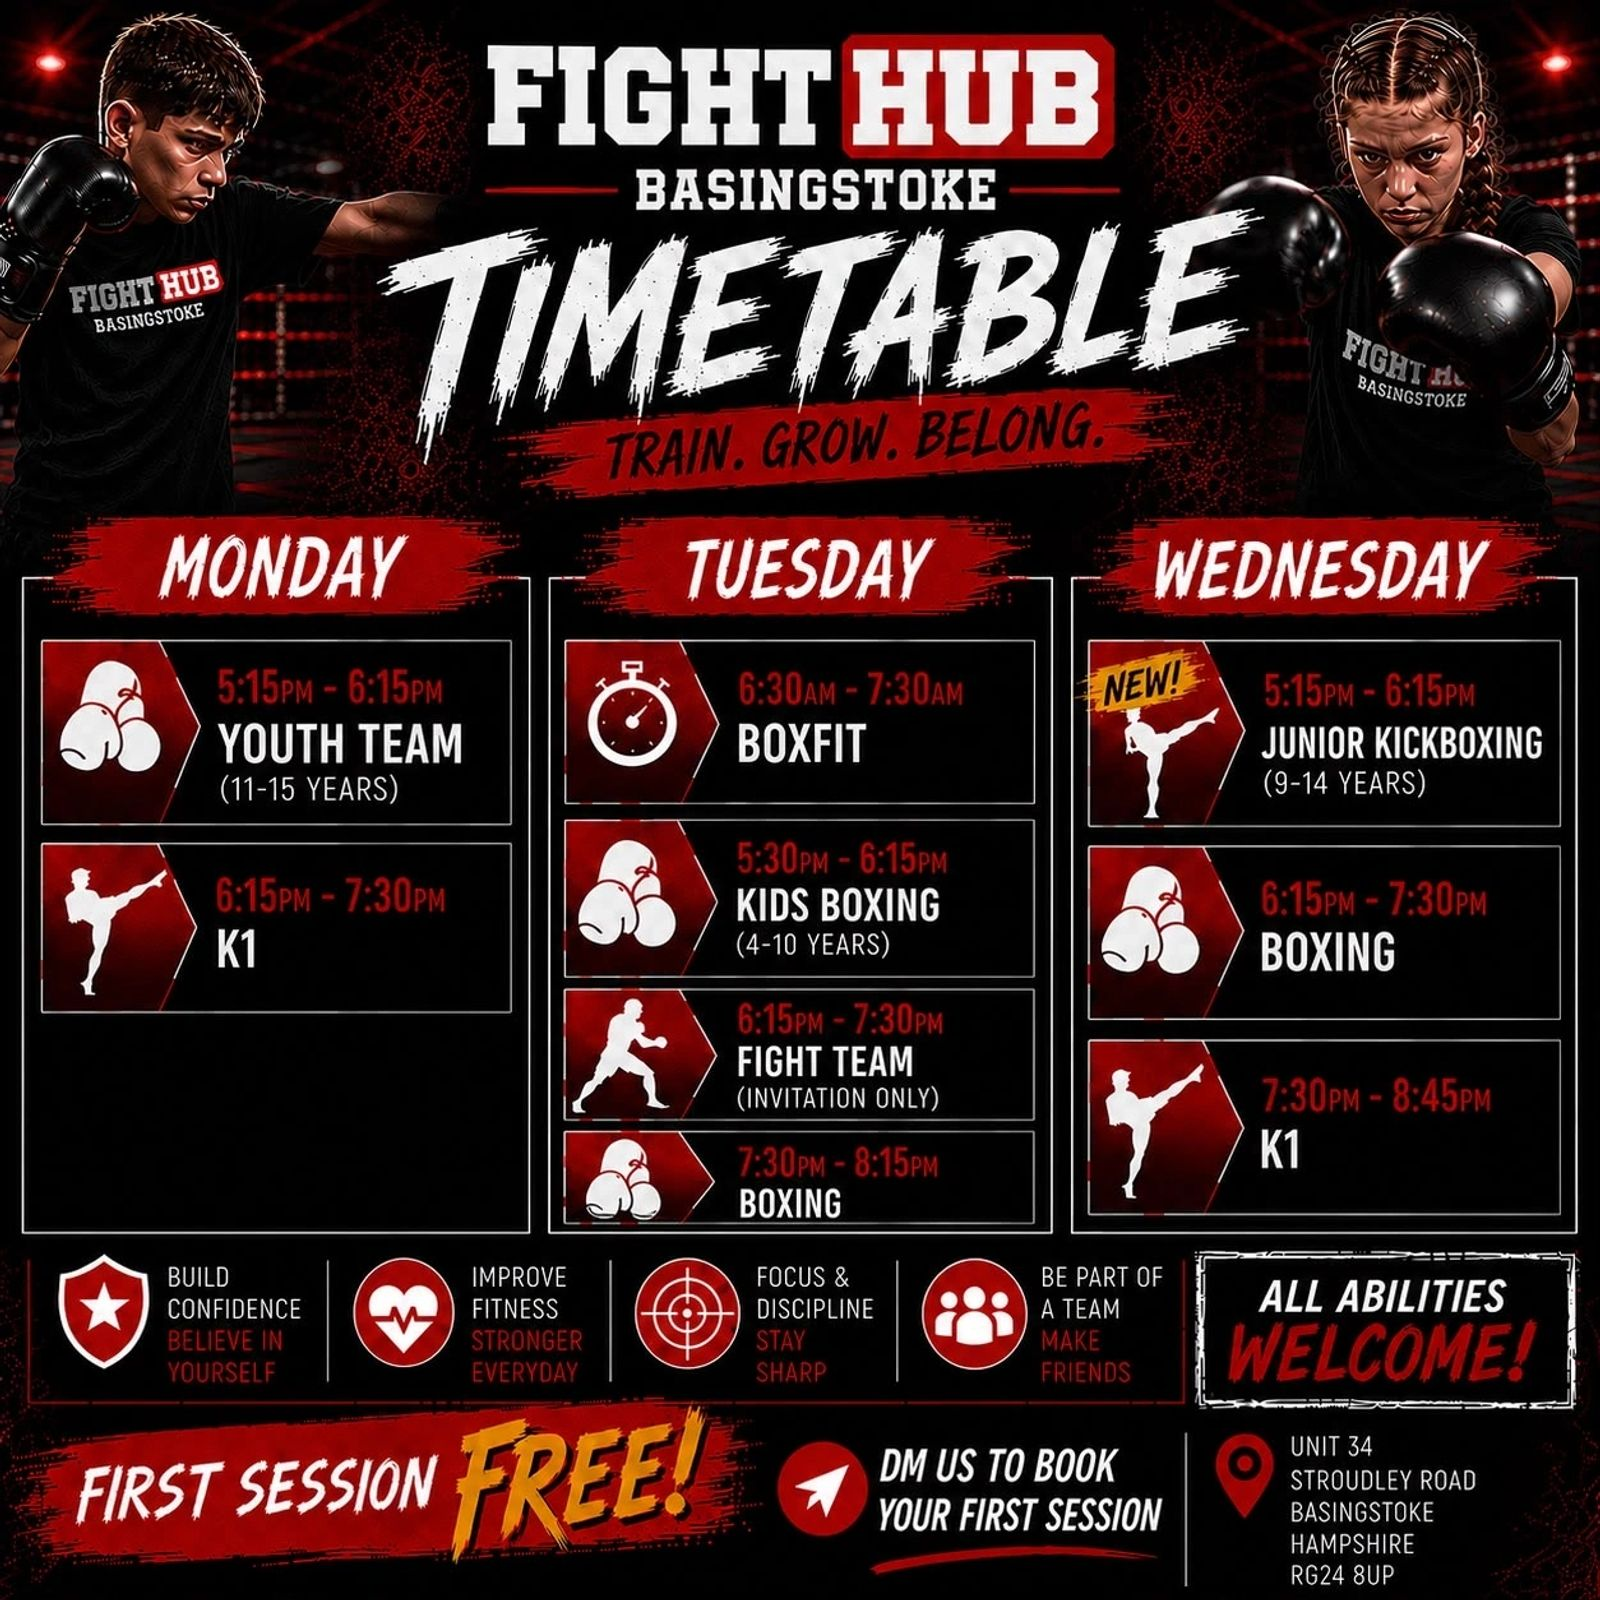
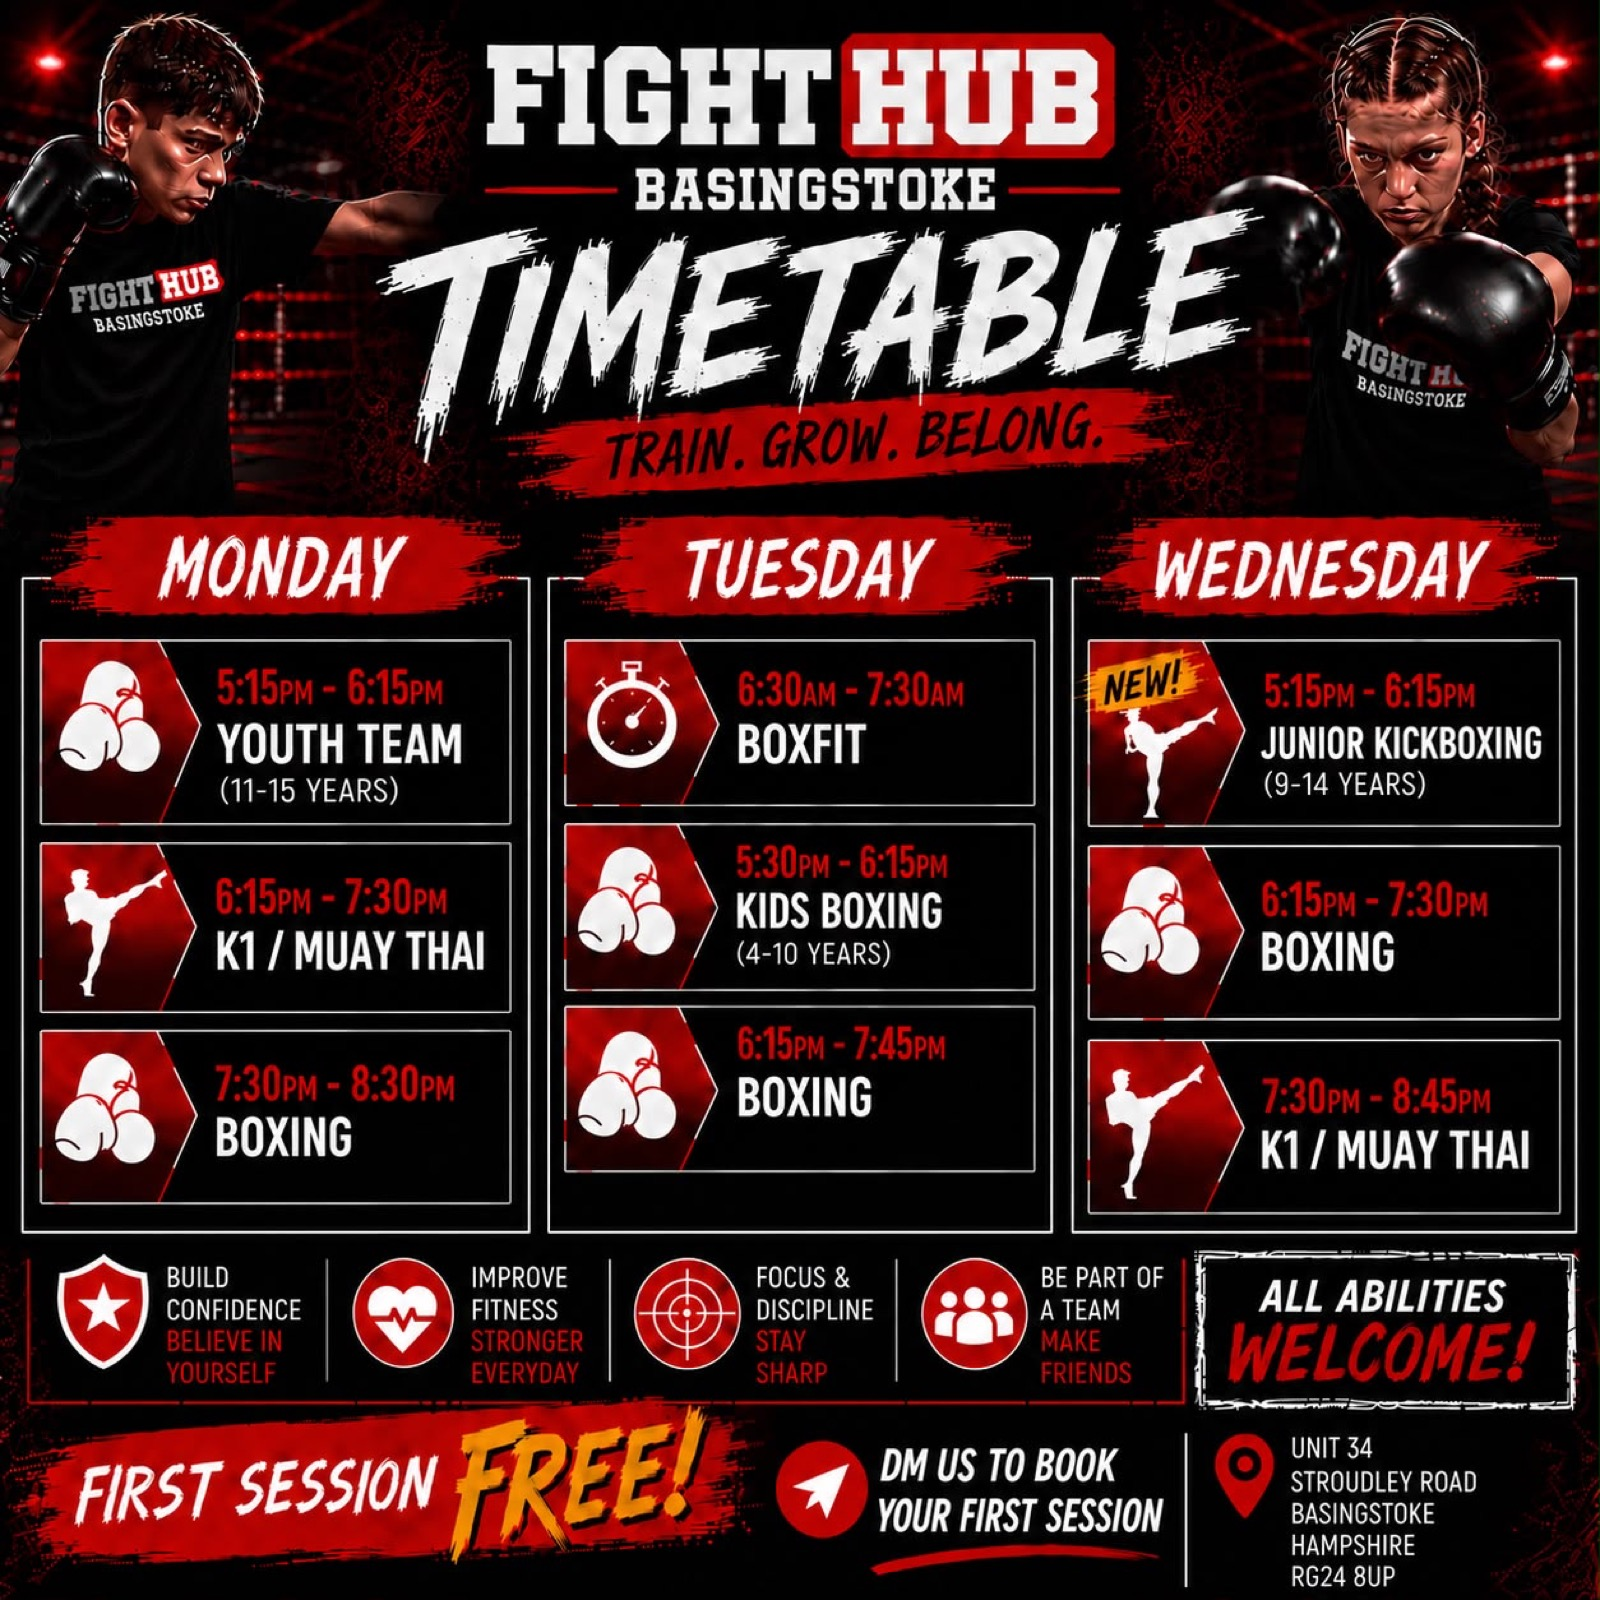
Update Mon-Wed schedule from new gym poster
Monday gained a Boxing session (19:30-20:30). Tuesday's Fight Team
slot and the old 19:30-20:15 Boxing slot merged into a single Boxing
session (18:15-19:45) - Fight Team no longer runs Tuesdays. K1
sessions are now labelled "K1 / Muay Thai" on the schedule, matching
the gym's own flyer wording. Wednesday unchanged.

Replaced the embedded Mon-Wed timetable photo with the new poster,
and updated every page referencing Tuesday Fight Team or Boxing
hours (timetable, homepage preview, classes, boxing/Muay Thai/K1/MMA
landing pages).

Thu-Sun left as previously verified, since this poster doesn't cover
that half of the week.

diff --git a/timetable.html b/timetable.html
@@ -64,7 +64,8 @@
           <h2 class="day-panel-heading">Monday</h2>
           <div class="class-card-list">
             <div class="class-card"><div class="class-time">17:15 – 18:15</div><div class="class-info"><h3>Youth Team</h3><span class="class-who">Ages 11–15</span></div></div>
-            <div class="class-card"><div class="class-time">18:15 – 19:30</div><div class="class-info"><h3>K1</h3><span class="class-who">Adults, all levels</span></div></div>
+            <div class="class-card"><div class="class-time">18:15 – 19:30</div><div class="class-info"><h3>K1 / Muay Thai</h3><span class="class-who">Adults, all levels</span></div></div>
+            <div class="class-card"><div class="class-time">19:30 – 20:30</div><div class="class-info"><h3>Boxing</h3><span class="class-who">All levels</span></div></div>
           </div>
         </div>
 
@@ -73,8 +74,7 @@
           <div class="class-card-list">
             <div class="class-card"><div class="class-time">06:30 – 07:30</div><div class="class-info"><h3>BoxFit</h3><span class="class-who">Adults, fitness-focused</span></div></div>
             <div class="class-card"><div class="class-time">17:30 – 18:15</div><div class="class-info"><h3>Kids Boxing</h3><span class="class-who">Ages 4–10</span></div></div>
-            <div class="class-card"><div class="class-time">18:15 – 19:30</div><div class="class-info"><h3>Fight Team <span class="tag">Invitation Only</span></h3><span class="class-who">Advanced / competitive</span></div></div>
-            <div class="class-card"><div class="class-time">19:30 – 20:15</div><div class="class-info"><h3>Boxing</h3><span class="class-who">All levels</span></div></div>
+            <div class="class-card"><div class="class-time">18:15 – 19:45</div><div class="class-info"><h3>Boxing</h3><span class="class-who">All levels</span></div></div>
           </div>
         </div>
 
@@ -83,7 +83,7 @@
           <div class="class-card-list">
             <div class="class-card"><div class="class-time">17:15 – 18:15</div><div class="class-info"><h3>Junior Kickboxing <span class="tag">New</span></h3><span class="class-who">Ages 9–14</span></div></div>
             <div class="class-card"><div class="class-time">18:15 – 19:30</div><div class="class-info"><h3>Boxing</h3><span class="class-who">All levels</span></div></div>
-            <div class="class-card"><div class="class-time">19:30 – 20:45</div><div class="class-info"><h3>K1</h3><span class="class-who">Adults, all levels</span></div></div>
+            <div class="class-card"><div class="class-time">19:30 – 20:45</div><div class="class-info"><h3>K1 / Muay Thai</h3><span class="class-who">Adults, all levels</span></div></div>
           </div>
         </div>
 

diff --git a/index.html b/index.html
@@ -190,9 +190,9 @@
       </div>
       <p style="color:var(--color-text-muted); margin-bottom:20px;">A snapshot of our weekly schedule — see the full timetable for every session.</p>
       <div class="class-card-list class-card-list--wide-time">
-        <div class="class-card"><div class="class-time">Mon · 18:15 – 19:30</div><div class="class-info"><h3>K1</h3><span class="class-who">Muay Thai-style kickboxing, adults</span></div></div>
-        <div class="class-card"><div class="class-time">Tue · 18:15 – 19:30</div><div class="class-info"><h3>Fight Team <span class="tag">Invitation Only</span></h3><span class="class-who">Advanced / competitive</span></div></div>
-        <div class="class-card"><div class="class-time">Wed · 19:30 – 20:45</div><div class="class-info"><h3>K1</h3><span class="class-who">Muay Thai-style kickboxing, adults</span></div></div>
+        <div class="class-card"><div class="class-time">Mon · 18:15 – 19:30</div><div class="class-info"><h3>K1 / Muay Thai</h3><span class="class-who">Muay Thai-style kickboxing, adults</span></div></div>
+        <div class="class-card"><div class="class-time">Tue · 18:15 – 19:45</div><div class="class-info"><h3>Boxing</h3><span class="class-who">All levels</span></div></div>
+        <div class="class-card"><div class="class-time">Wed · 19:30 – 20:45</div><div class="class-info"><h3>K1 / Muay Thai</h3><span class="class-who">Muay Thai-style kickboxing, adults</span></div></div>
         <div class="class-card"><div class="class-time">Thu · 06:30 – 07:30</div><div class="class-info"><h3>BoxFit</h3><span class="class-who">Fitness-focused boxing workout</span></div></div>
         <div class="class-card"><div class="class-time">Fri · 19:00 – 20:15</div><div class="class-info"><h3>Boxing</h3><span class="class-who">All levels</span></div></div>
         <div class="class-card"><div class="class-time">Sun · 10:00 – 11:30</div><div class="class-info"><h3>Open Sparring</h3><span class="class-who">Competitive members</span></div></div>

diff --git a/classes.html b/classes.html
@@ -61,12 +61,12 @@
           <h3>Boxing</h3>
           <p>Our core boxing class covering footwork, combinations, pad work and technique for all levels.</p>
           <div class="tag-list"><span class="tag">All Levels</span></div>
-          <p style="font-size:0.85rem; color:var(--color-text-muted);">Tue 19:30–20:15 · Wed 18:15–19:30 · Fri 19:00–20:15</p>
+          <p style="font-size:0.85rem; color:var(--color-text-muted);">Mon 19:30–20:30 · Tue 18:15–19:45 · Wed 18:15–19:30 · Fri 19:00–20:15</p>
           <a href="boxing-basingstoke.html" class="card-link">Boxing in Basingstoke →</a>
         </div>
 
         <div class="card" id="k1">
-          <h3>K1</h3>
+          <h3>K1 / Muay Thai</h3>
           <p>Our Muay Thai-style kickboxing class, blending clinch, knees and elbows with boxing hands and hard kicks.</p>
           <div class="tag-list"><span class="tag">Adults</span><span class="tag">All Levels</span></div>
           <p style="font-size:0.85rem; color:var(--color-text-muted);">Mon 18:15–19:30 · Wed 19:30–20:45 · Thu 19:15–20:15</p>
@@ -77,7 +77,7 @@
           <h3>Fight Team <span class="tag" style="margin-left:6px;">Invitation Only</span></h3>
           <p>Our most advanced session, blending boxing, K1 and MMA-style striking and grappling for members training towards amateur competition.</p>
           <div class="tag-list"><span class="tag">Advanced</span><span class="tag">Competitive</span></div>
-          <p style="font-size:0.85rem; color:var(--color-text-muted);">Tue 18:15–19:30 · Thu 18:15–19:15</p>
+          <p style="font-size:0.85rem; color:var(--color-text-muted);">Thu 18:15–19:15</p>
           <a href="mma-basingstoke.html" class="card-link">Explore MMA →</a>
         </div>
 

diff --git a/boxing-basingstoke.html b/boxing-basingstoke.html
@@ -91,8 +91,8 @@
       <div class="grid grid-3">
         <div class="card">
           <h3>Boxing</h3>
-          <p>Our core boxing class for all levels, covering footwork, guard, combinations and pad work. Tue 19:30–20:15, Wed 18:15–19:30, Fri 19:00–20:15.</p>
-          <div class="tag-list"><span class="tag">All Levels</span><span class="tag">Tue · Wed · Fri</span></div>
+          <p>Our core boxing class for all levels, covering footwork, guard, combinations and pad work. Mon 19:30–20:30, Tue 18:15–19:45, Wed 18:15–19:30, Fri 19:00–20:15.</p>
+          <div class="tag-list"><span class="tag">All Levels</span><span class="tag">Mon · Tue · Wed · Fri</span></div>
         </div>
         <div class="card">
           <h3>Youth Team</h3>
@@ -106,8 +106,8 @@
         </div>
         <div class="card">
           <h3>Fight Team <span class="tag" style="margin-left:6px;">Invitation Only</span></h3>
-          <p>Our advanced boxing, K1 &amp; MMA-style sessions for members preparing to compete. Tue 18:15–19:30, Thu 18:15–19:15, plus Open Sparring Sun 10:00–11:30. <a href="mma-basingstoke.html" style="color:var(--color-accent);">Explore MMA →</a></p>
-          <div class="tag-list"><span class="tag">Advanced</span><span class="tag">Tue · Thu · Sun</span></div>
+          <p>Our advanced boxing, K1 &amp; MMA-style sessions for members preparing to compete. Thu 18:15–19:15, plus Open Sparring Sun 10:00–11:30. <a href="mma-basingstoke.html" style="color:var(--color-accent);">Explore MMA →</a></p>
+          <div class="tag-list"><span class="tag">Advanced</span><span class="tag">Thu · Sun</span></div>
         </div>
         <div class="card">
           <h3>BoxFit</h3>

diff --git a/muay-thai-basingstoke.html b/muay-thai-basingstoke.html
@@ -102,7 +102,7 @@
         <div class="card">
           <h3>Fight Team <span class="tag" style="margin-left:6px;">Invitation Only</span></h3>
           <p>Our advanced MMA-style class for members competing in kickboxing or boxing, plus Open Sparring for competitive members on Sunday mornings. <a href="mma-basingstoke.html" style="color:var(--color-accent);">Explore MMA →</a></p>
-          <div class="tag-list"><span class="tag">Advanced</span><span class="tag">Tue · Thu · Sun</span></div>
+          <div class="tag-list"><span class="tag">Advanced</span><span class="tag">Thu · Sun</span></div>
         </div>
       </div>
       <div class="photo-frame" style="aspect-ratio:16/9; margin-top:32px;">

diff --git a/k1-basingstoke.html b/k1-basingstoke.html
@@ -102,7 +102,7 @@
         <div class="card">
           <h3>Fight Team <span class="tag" style="margin-left:6px;">Invitation Only</span></h3>
           <p>Our advanced class for members competing in K1 or boxing, plus Open Sparring for competitive members on Sunday mornings.</p>
-          <div class="tag-list"><span class="tag">Advanced</span><span class="tag">Tue · Thu · Sun</span></div>
+          <div class="tag-list"><span class="tag">Advanced</span><span class="tag">Thu · Sun</span></div>
         </div>
       </div>
       <div class="photo-frame" style="aspect-ratio:16/9; margin-top:32px;">

diff --git a/mma-basingstoke.html b/mma-basingstoke.html
@@ -97,7 +97,7 @@
         <div class="card">
           <h3>Fight Team <span class="tag" style="margin-left:6px;">Invitation Only</span></h3>
           <p>Our most advanced session, where striking, clinch and grappling fundamentals come together for members training towards competition.</p>
-          <div class="tag-list"><span class="tag">Advanced</span><span class="tag">Tue · Thu · Sun</span></div>
+          <div class="tag-list"><span class="tag">Advanced</span><span class="tag">Thu · Sun</span></div>
         </div>
         <div class="card">
           <h3>MMA-Experienced Coaches</h3>
